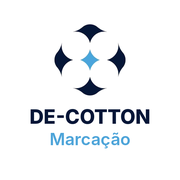
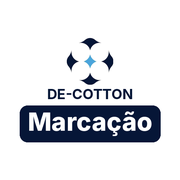
v1.0.3: ícone com o nome do app em destaque
Claude-Session: https://claude.ai/code/session_01Nmf84eCDdGJfLBLhLhZPr3

Changed region(s): [[0.0833, 0.5833, 0.9167, 0.8333], [0.2778, 0.1111, 0.7222, 0.4167], [0.25, 0.4167, 0.75, 0.5556]]

diff --git a/sw.js b/sw.js
@@ -1,5 +1,5 @@
 // Service worker: deixa o app de marcação e o leitor de códigos disponíveis sem internet
-const CACHE="marcacao-v3";
+const CACHE="marcacao-v4";
 const SHELL=["./","./index.html","./manifest.webmanifest","./icon-192.png","./icon-512.png","./icon-180.png","./logo.png","./qrcode.js"];
 const EXT=["https://cdn.jsdelivr.net/npm/zxing-wasm@2.2.4/dist/iife/reader/index.js","https://cdn.jsdelivr.net/npm/zxing-wasm@2.2.4/dist/reader/zxing_reader.wasm"];
 self.addEventListener("install",e=>{e.waitUntil((async()=>{const c=await caches.open(CACHE);await c.addAll(SHELL);

diff --git a/index.html b/index.html
@@ -74,7 +74,7 @@ main{padding:12px;max-width:640px;margin:0 auto;padding-bottom:40px}
 // Bluetooth (Web Serial do Chrome) ou pelo app RawBT.
 // Sem dados da empresa no app: logos e nomes vêm dentro do pacote.
 // ======================================================================
-const VER="1.0.2";
+const VER="1.0.3";
 const $=s=>document.querySelector(s);
 const esc=v=>String(v??"").replace(/[&<>"']/g,c=>({"&":"&amp;","<":"&lt;",">":"&gt;",'"':"&quot;","'":"&#39;"}[c]));
 const fmt=n=>n==null?"—":Number(n).toLocaleString("pt-BR");
